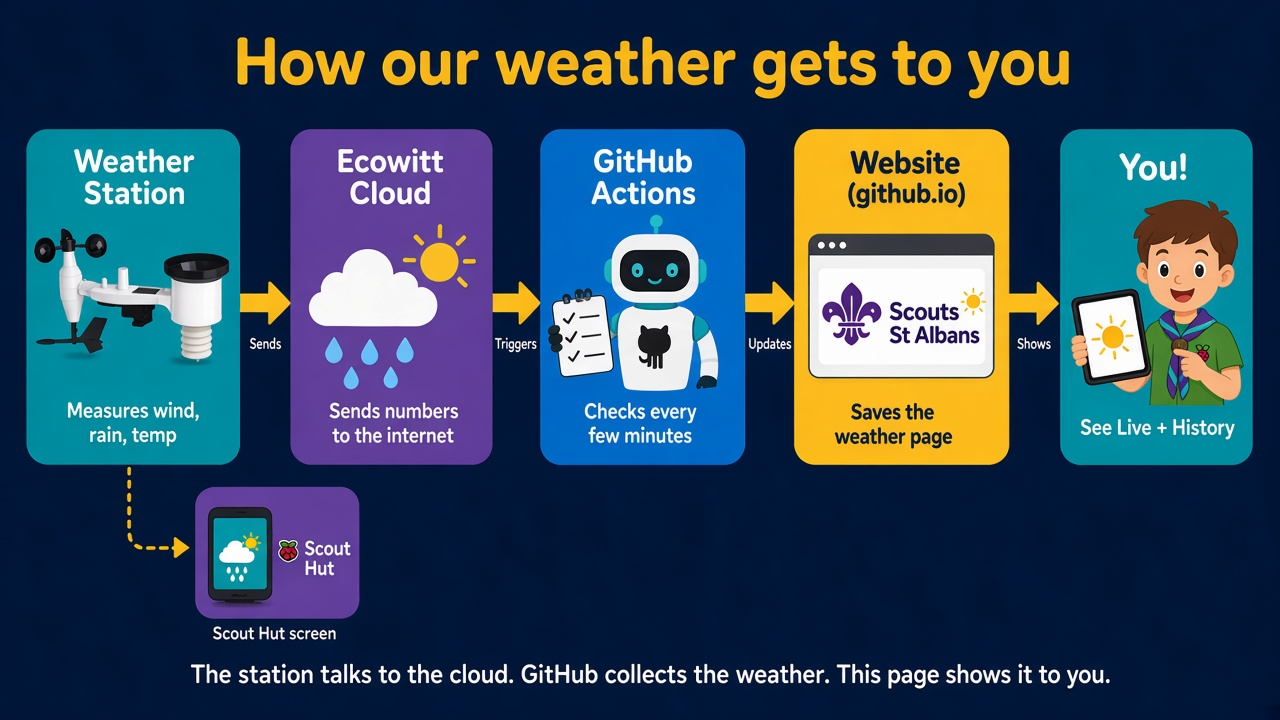
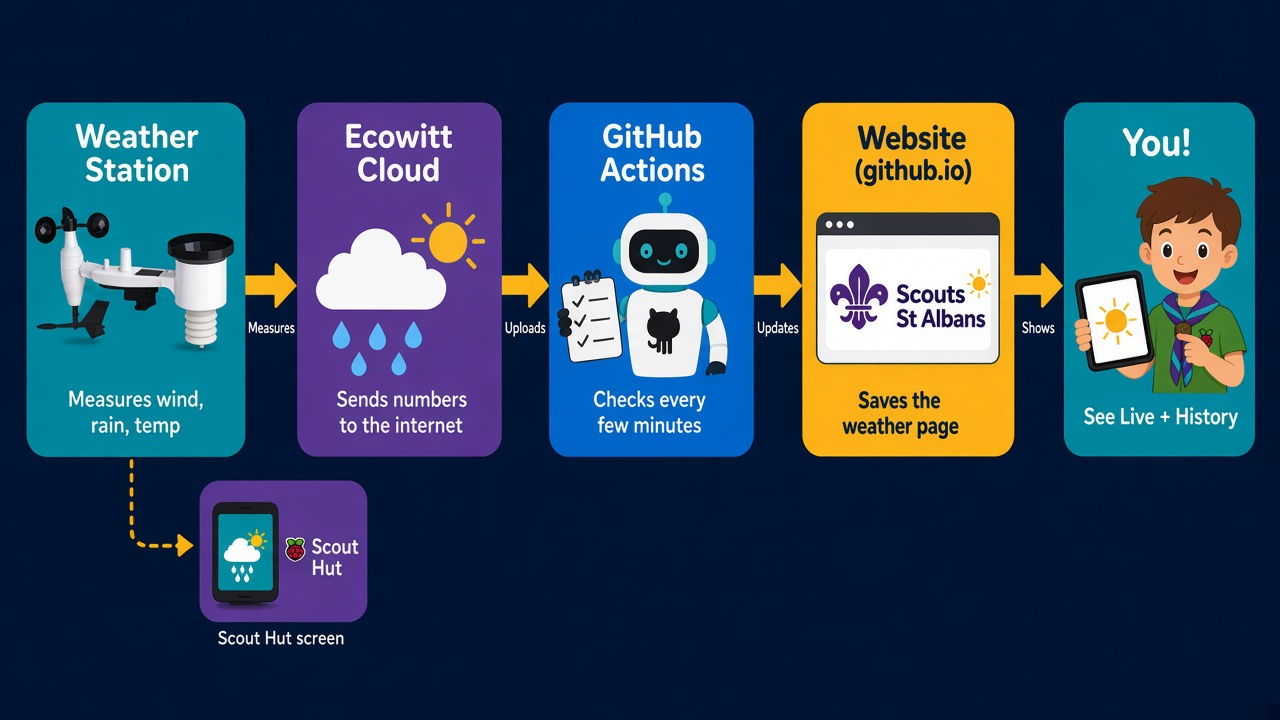
Publish public site UI (preserve Action weather data)

Changed region(s): [[0.0, 0.0306, 1.0, 0.9472]]

diff --git a/styles.css b/styles.css
@@ -1889,8 +1889,8 @@ body.is-gated .bottom-bar {
 }
 
 #how-dialog {
-  width: min(960px, calc(100vw - 24px));
-  max-height: calc(100dvh - 24px);
+  width: min(1100px, calc(100vw - 20px));
+  max-height: calc(100dvh - 16px);
   overflow: hidden;
 }
 
@@ -1899,20 +1899,20 @@ body.is-gated .bottom-bar {
   flex-direction: column;
   align-items: stretch;
   width: 100%;
-  max-height: calc(100dvh - 24px);
-  padding: 20px 18px 16px;
+  max-height: calc(100dvh - 16px);
+  padding: 14px 14px 12px;
   box-sizing: border-box;
   overflow: hidden;
 }
 
 .how-card h2 {
   flex: 0 0 auto;
-  margin: 0 0 8px;
+  margin: 0 0 6px;
 }
 
 .how-swipe-hint {
   display: none;
-  margin: 0 0 8px;
+  margin: 0 0 6px;
   color: var(--scout-yellow);
   font-size: 0.85rem;
   font-weight: 700;
@@ -1934,25 +1934,16 @@ body.is-gated .bottom-bar {
 
 .how-graphic {
   display: block;
-  height: min(56dvh, 520px);
+  height: min(72dvh, 640px);
   width: auto;
   max-width: none;
   object-fit: contain;
   object-position: left center;
 }
 
-.how-caption {
-  flex: 0 0 auto;
-  margin: 12px 0 0;
-  color: var(--muted);
-  font-size: 0.92rem;
-  font-weight: 600;
-  line-height: 1.35;
-}
-
 .how-card .welcome-actions {
   flex: 0 0 auto;
-  margin-top: 12px;
+  margin-top: 10px;
 }
 
 @media (min-width: 900px) {
@@ -1964,20 +1955,20 @@ body.is-gated .bottom-bar {
   .how-graphic {
     width: 100%;
     height: auto;
-    max-height: min(56dvh, 520px);
+    max-height: min(78dvh, 700px);
   }
 }
 
 @media (max-width: 700px) {
   #how-dialog {
-    width: calc(100vw - 12px);
-    max-height: calc(100dvh - 12px);
+    width: calc(100vw - 10px);
+    max-height: calc(100dvh - 10px);
     margin: auto;
   }
 
   .how-card {
-    padding: 12px 10px 10px;
-    max-height: calc(100dvh - 12px);
+    padding: 10px 8px 8px;
+    max-height: calc(100dvh - 10px);
   }
 
   .how-card h2 {
@@ -1987,18 +1978,12 @@ body.is-gated .bottom-bar {
 
   .how-swipe-hint {
     display: block;
-    margin-bottom: 6px;
-    font-size: 0.8rem;
+    margin-bottom: 4px;
+    font-size: 0.78rem;
   }
 
-  /* Taller graphic → wider aspect → more sideways scroll, easier to read */
   .how-graphic {
-    height: min(58dvh, 400px);
-  }
-
-  .how-caption {
-    margin-top: 8px;
-    font-size: 0.82rem;
+    height: min(70dvh, 520px);
   }
 
   .how-card .welcome-actions {

diff --git a/index.html b/index.html
@@ -11,7 +11,7 @@
       href="https://fonts.googleapis.com/css2?family=Nunito+Sans:opsz,wght@6..12,400;6..12,600;6..12,700;6..12,800;6..12,900&display=swap"
       rel="stylesheet"
     />
-    <link rel="stylesheet" href="./styles.css?v=47" />
+    <link rel="stylesheet" href="./styles.css?v=48" />
   </head>
   <body class="is-gated">
     <div class="sky" aria-hidden="true"></div>
@@ -408,9 +408,6 @@
             height="1080"
           />
         </div>
-        <p class="how-caption">
-          The station talks to the cloud. GitHub collects the weather. This page shows it to you.
-        </p>
         <div class="welcome-actions">
           <button type="button" class="welcome-ok" id="btn-how-close">Close</button>
         </div>
